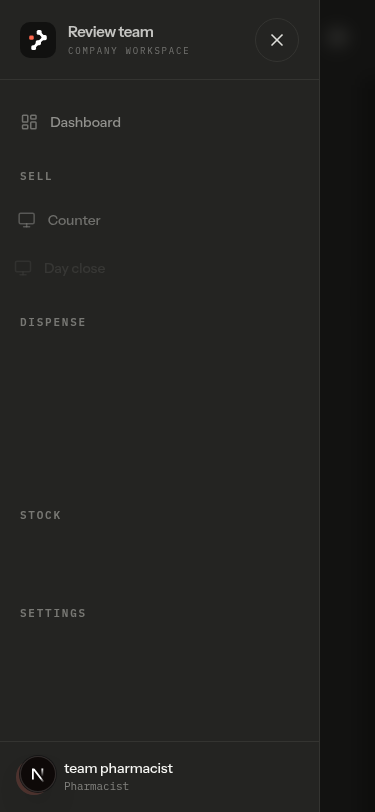
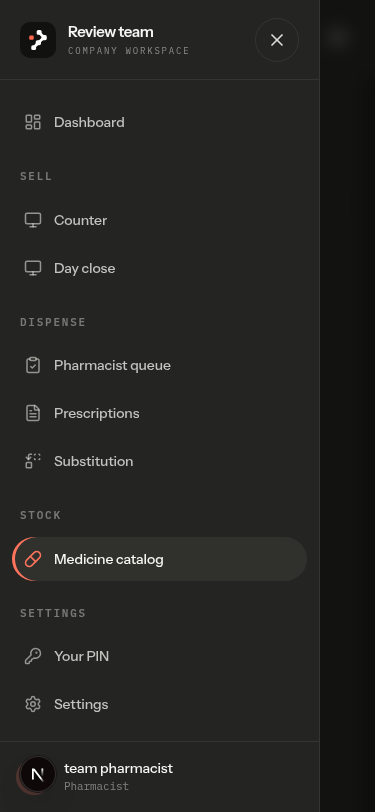
DEV-1024: Restore the reviewed import after a page refresh

diff --git a/src/server/routers/pharmacy-medicine.ts b/src/server/routers/pharmacy-medicine.ts
@@ -1458,10 +1458,16 @@ export const pharmacyMedicineRouter = router({
       })
     ),
 
-  /** Only the named file in a pending proposal is visible through the review queue. */
+  /** The proposal exposes staged rows only while pending. Its signer can resume an approved file. */
   proposedImport: capabilityProcedure('pharmacy:catalogue-review')
     .input(
-      z.object({ editId: boundedId, page: z.number().int().min(1).max(10000).default(1) }).strict()
+      z
+        .object({
+          editId: boundedId,
+          page: z.number().int().min(1).max(10000).default(1),
+          approvedByMe: z.literal(true).optional(),
+        })
+        .strict()
     )
     .query(async ({ ctx, input }) => {
       const organizationId = ctx.entitlements.organizationId;
@@ -1477,7 +1483,9 @@ export const pharmacyMedicineRouter = router({
         where: {
           organizationId,
           id: input.editId,
-          status: 'PENDING',
+          ...(input.approvedByMe
+            ? { status: 'APPROVED', reviewerId: ctx.session.user.id }
+            : { status: 'PENDING' }),
           operation: STAGED_CREATION_OPERATION,
         },
         select: { changes: true },
@@ -1491,8 +1499,9 @@ export const pharmacyMedicineRouter = router({
           }),
         })
         .safeParse(proposal?.changes);
-      const unavailable =
-        'This import is no longer awaiting review here. Ask the catalogue editor to check the request.';
+      const unavailable = input.approvedByMe
+        ? 'This file needs an approved request signed by you. Ask its catalogue editor to check the approval.'
+        : 'This import is no longer awaiting review here. Ask the catalogue editor to check the request.';
       if (!request.success) throw new TRPCError({ code: 'NOT_FOUND', message: unavailable });
       const { batchId, sourceSha256, reorderBranchId } = request.data.json;
       const branches = await admittedInventoryBranchIds(ctx);
@@ -1508,9 +1517,15 @@ export const pharmacyMedicineRouter = router({
           id: batchId,
           source: { organizationId, contentHash: sourceSha256 },
         },
-        select: { id: true },
+        select: { id: true, source: { select: { fileName: true } } },
       });
       if (!batch) throw new TRPCError({ code: 'NOT_FOUND', message: unavailable });
+      if (input.approvedByMe)
+        return {
+          approved: { batchId: batch.id, fileName: batch.source.fileName },
+          rows: [],
+          hasMore: false,
+        };
       const pageSize = 25;
       const rows = await ctx.db.pharmacyMigrationRow.findMany({
         where: { organizationId, batchId: batch.id, targetModelKey: 'med.product' },
@@ -1530,6 +1545,7 @@ export const pharmacyMedicineRouter = router({
         },
       });
       return {
+        approved: null,
         hasMore: rows.length > pageSize,
         rows: rows.slice(0, pageSize).map((row) => {
           // Match the creation preview without returning arbitrary source cells or commercial terms.

diff --git a/src/components/pharmacy/catalogue-approval-queue.tsx b/src/components/pharmacy/catalogue-approval-queue.tsx
@@ -2,7 +2,7 @@
 
 import { SelectField as StudioSelect } from '@/components/ui/select-field';
 
-import { ApprovedImportCreation, ProposedImport } from './proposed-import';
+import { ReviewerApprovedImport, ProposedImport } from './proposed-import';
 import { useState } from 'react';
 import { trpc } from '@/lib/trpc';
 import { formatMinor } from '@/lib/pharmacy/counter-receipt';
@@ -115,7 +115,6 @@ export function askReviewers(names: readonly string[]): string {
 
 export function CatalogueApprovalQueue({ reviewerView = false }: { reviewerView?: boolean } = {}) {
   const [reviewId, setReviewId] = useState<string | null>(null);
-  const [approvedBatch, setApprovedBatch] = useState<{ id: string; fileName: string } | null>(null);
   const [pin, setPin] = useState('');
   const [query, setQuery] = useState('');
   const [medicineId, setMedicineId] = useState('');
@@ -157,18 +156,14 @@ export function CatalogueApprovalQueue({ reviewerView = false }: { reviewerView?
     ? ownApproval.ownEditReason
     : ownApproval.ownerFallbackReason;
   const decide = trpc.pharmacyMedicine.decideCatalogueEdit.useMutation({
-    onSuccess: async (result) => {
+    onMutate: ({ editId }) => queue.data?.find((edit) => edit.id === editId)?.operation,
+    onSuccess: async (result, _input, operation) => {
       setPin('');
       setDecisionNotice(decisionMessage(result));
-      if (result?.status === 'APPROVED' && reviewerView) {
-        const edit = queue.data?.find(
-          (item) => item.id === result.id && item.operation === 'createStagedMedicines'
-        );
-        const request = (
-          edit?.changes as { json?: { batchId?: string; fileName?: string } } | undefined
-        )?.json;
-        if (request?.batchId && request.fileName)
-          setApprovedBatch({ id: request.batchId, fileName: request.fileName });
+      if (reviewerView && result?.status === 'APPROVED' && operation === 'createStagedMedicines') {
+        const url = new URL(window.location.href);
+        url.searchParams.set('approvedImport', result.id);
+        window.history.replaceState(null, '', url);
       }
       await utils.pharmacyMedicine.catalogueEdits.invalidate();
     },
@@ -310,13 +305,7 @@ export function CatalogueApprovalQueue({ reviewerView = false }: { reviewerView?
       {!queue.isPending && !queue.error && queue.data?.length === 0 ? (
         <p className="text-sm text-text-muted">No catalogue edits are awaiting review.</p>
       ) : null}
-      {approvedBatch && (
-        <ApprovedImportCreation
-          key={approvedBatch.id}
-          batchId={approvedBatch.id}
-          fileName={approvedBatch.fileName}
-        />
-      )}
+      {reviewerView && <ReviewerApprovedImport />}
       <div className="space-y-4">
         {queue.data?.map((edit) => {
           const mode = approvalMode(edit.ownEdit);

diff --git a/src/components/pharmacy/proposed-import.tsx b/src/components/pharmacy/proposed-import.tsx
@@ -1,5 +1,6 @@
 'use client';
 
+import { useSearchParams } from 'next/navigation';
 import { useState } from 'react';
 import { Button } from '@/components/ui/button';
 import { formatMinor } from '@/lib/pharmacy/counter-receipt';
@@ -79,13 +80,28 @@ export function ProposedImport({ editId }: { editId: string }) {
   );
 }
 
-export function ApprovedImportCreation({
-  batchId,
-  fileName,
-}: {
-  batchId: string;
-  fileName: string;
-}) {
+/** A refresh rechecks the signed-in reviewer, branch and approval before showing Create. */
+export function ReviewerApprovedImport() {
+  const editId = useSearchParams()?.get('approvedImport');
+  return editId ? <ApprovalReceipt key={editId} editId={editId} /> : null;
+}
+
+function ApprovalReceipt({ editId }: { editId: string }) {
+  const receipt = trpc.pharmacyMedicine.proposedImport.useQuery(
+    { editId, approvedByMe: true },
+    { retry: false }
+  );
+  if (receipt.isPending) return <p role="status">Loading the approved file…</p>;
+  if (receipt.error)
+    return (
+      <p role="alert" className="text-destructive">
+        {receipt.error.message}
+      </p>
+    );
+  return receipt.data.approved ? <ApprovedImportCreation {...receipt.data.approved} /> : null;
+}
+
+function ApprovedImportCreation({ batchId, fileName }: { batchId: string; fileName: string }) {
   const state = trpc.pharmacyMedicine.stagedMedicineCreation.useQuery(
     { batchId },
     { retry: false }

diff --git a/src/server/routers/pharmacy-medicine.test.ts b/src/server/routers/pharmacy-medicine.test.ts
@@ -188,6 +188,30 @@ describe('staged import proposal read', () => {
       })
     );
   });
+  it('reopens only a request approved by this reviewer, without loading staged rows', async () => {
+    grantCatalogueReview('user_a');
+    const result = await caller(['pharmacy-core'], 'EMPLOYEE', 'user_a', 'org_a').proposedImport({
+      editId: 'edit',
+      approvedByMe: true,
+    });
+    expect(db.pharmacyCatalogueEdit.findFirst).toHaveBeenCalledWith(
+      expect.objectContaining({
+        where: {
+          organizationId: 'org_a',
+          id: 'edit',
+          status: 'APPROVED',
+          reviewerId: 'user_a',
+          operation: 'createStagedMedicines',
+        },
+      })
+    );
+    expect(result).toEqual({
+      approved: { batchId: 'batch_a', fileName: 'proposal.csv' },
+      rows: [],
+      hasMore: false,
+    });
+    expect(db.pharmacyMigrationRow.findMany).not.toHaveBeenCalled();
+  });
   it('refuses a non-reviewer before it looks up any request', async () => {
     await expect(read()).rejects.toMatchObject({ code: 'FORBIDDEN' });
     expect(db.pharmacyCatalogueEdit.findFirst).not.toHaveBeenCalled();

diff --git a/src/lib/abac/pharmacy-procedure-gates.ts b/src/lib/abac/pharmacy-procedure-gates.ts
@@ -1019,7 +1019,7 @@ export const PHARMACY_PROCEDURE_GATES: Readonly<Record<string, PharmacyProcedure
     none: 'workspace administrators only (admin:access)',
   },
   'pharmacyMedicine.proposedImport': {
-    gate: "capabilityProcedure('pharmacy:catalogue-review'); pending import in the caller's workspace, an admitted active branch, and the proposed file checksum",
+    gate: "capabilityProcedure('pharmacy:catalogue-review'); pending import in the caller's workspace, an admitted active branch, and the proposed file checksum; only its approver can reopen the approved file for creation",
     lines: ['review-catalogue/approve-reject-others-catalogue'],
   },
   'pharmacyMedicine.proposeCatalogueEdit': {

diff --git a/tests/pharmacy-catalogue-review/import.spec.ts b/tests/pharmacy-catalogue-review/import.spec.ts
@@ -109,7 +109,10 @@ for (const scenario of scenarios) {
           })
         ).toBeVisible();
         if (decision === 'Approve') {
-          if (!member) await acting.reload();
+          await acting.reload();
+          await expect(
+            acting.getByRole('button', { name: 'Create medicines', exact: true })
+          ).toBeVisible();
           await acting.getByRole('button', { name: 'Create medicines', exact: true }).click();
           await expect(acting.getByText('All medicines created', { exact: true })).toBeVisible();
         }
